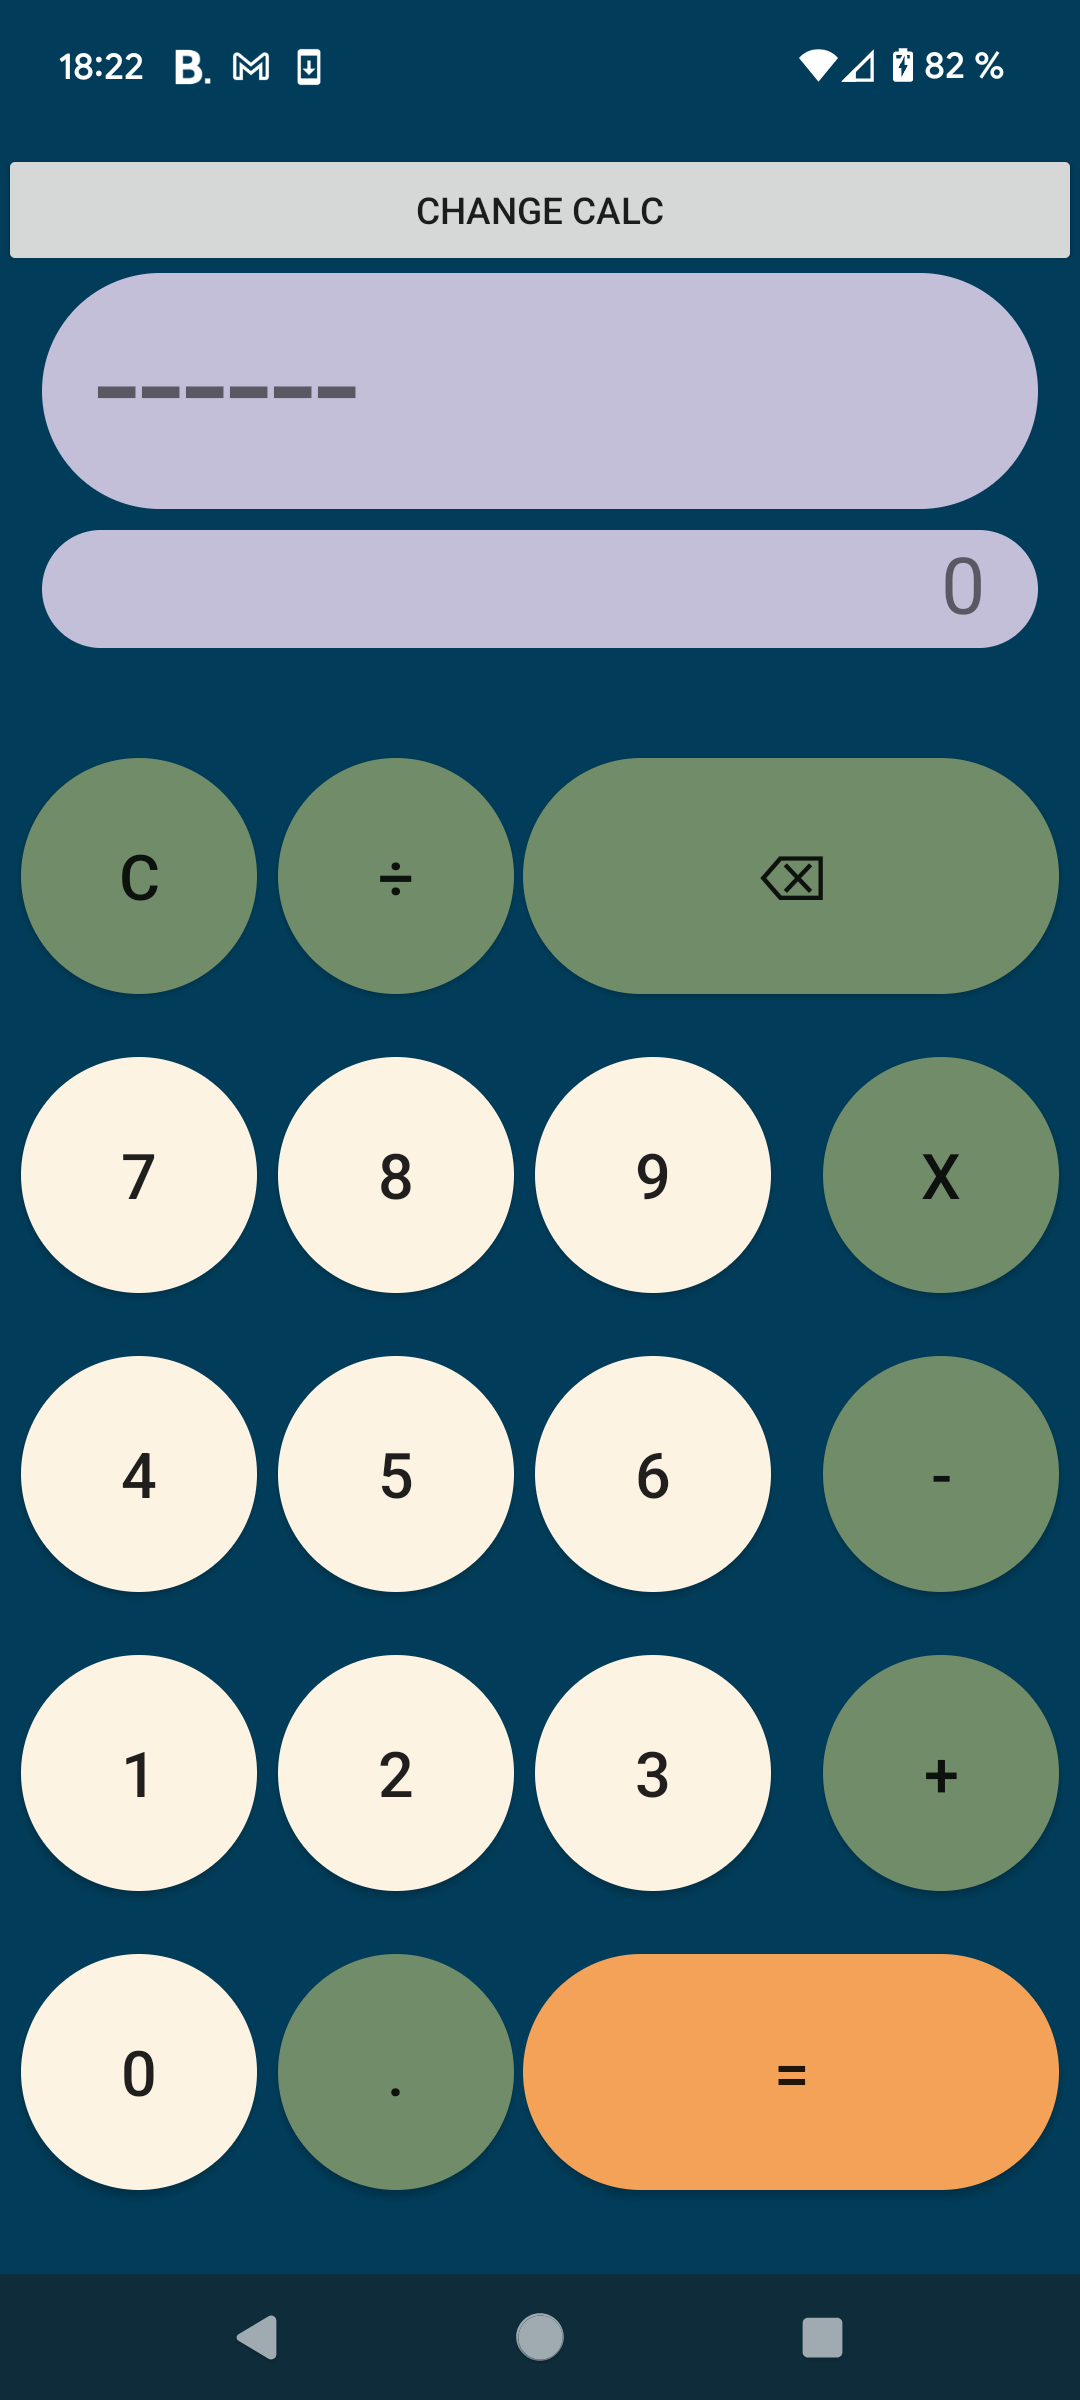
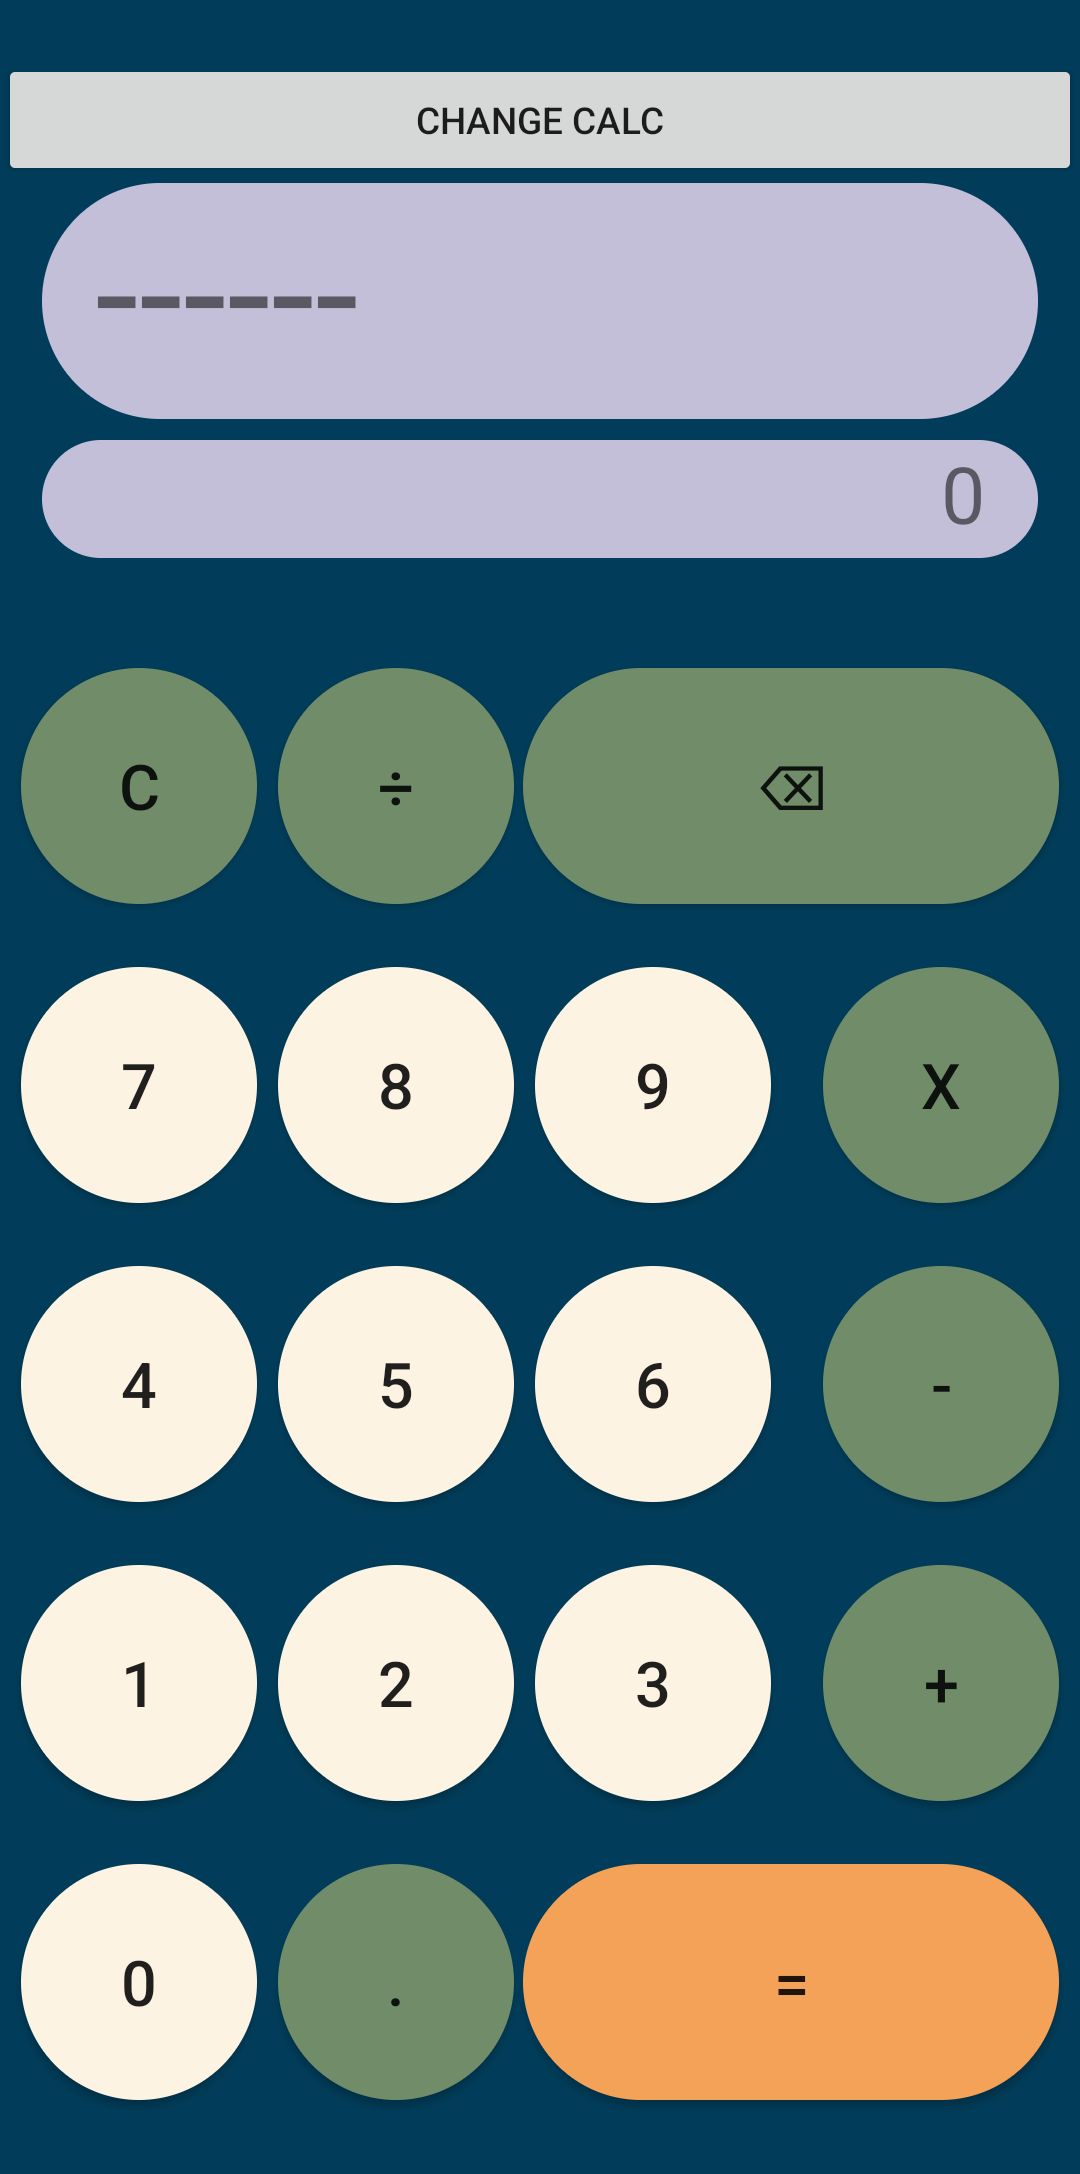
Modified img in README.md

diff --git a/README.md b/README.md
@@ -25,8 +25,8 @@ To get started with WiCalc, follow these steps:
 
 ## Screenshots
 
-![Primary screen](img\WiCalcPrimaryScreen.png "Primary screen")
-![Secondary screen](img\WiCalcSecondaryScreen.png "Other clac (for test)")
+<img src="img/WiCalcPrimaryScreen.png" width="150" height="300" />
+<img src="img/WiCalcSecondaryScreen.png" width="150" height="300" />
 
 ## Contributing
 
